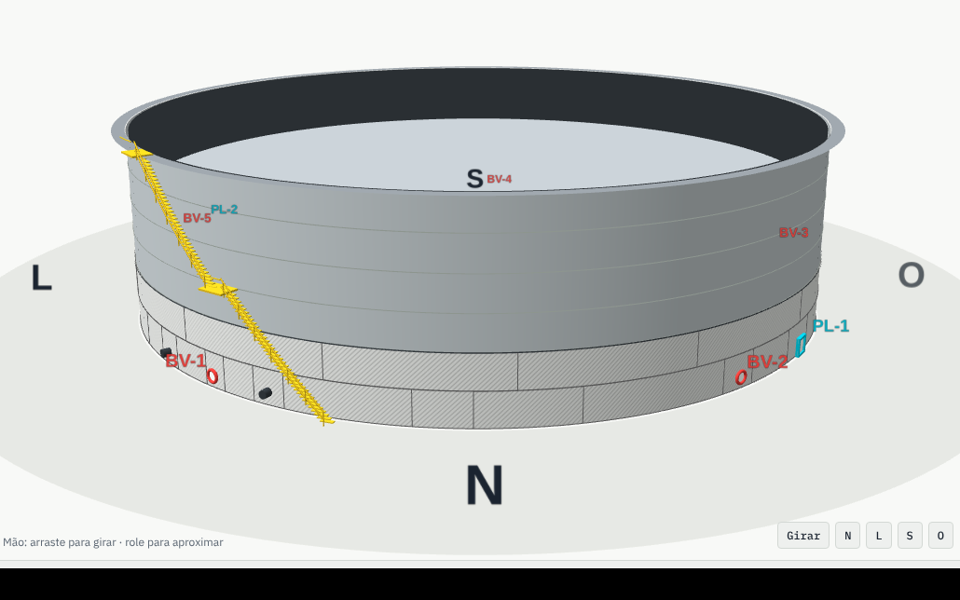
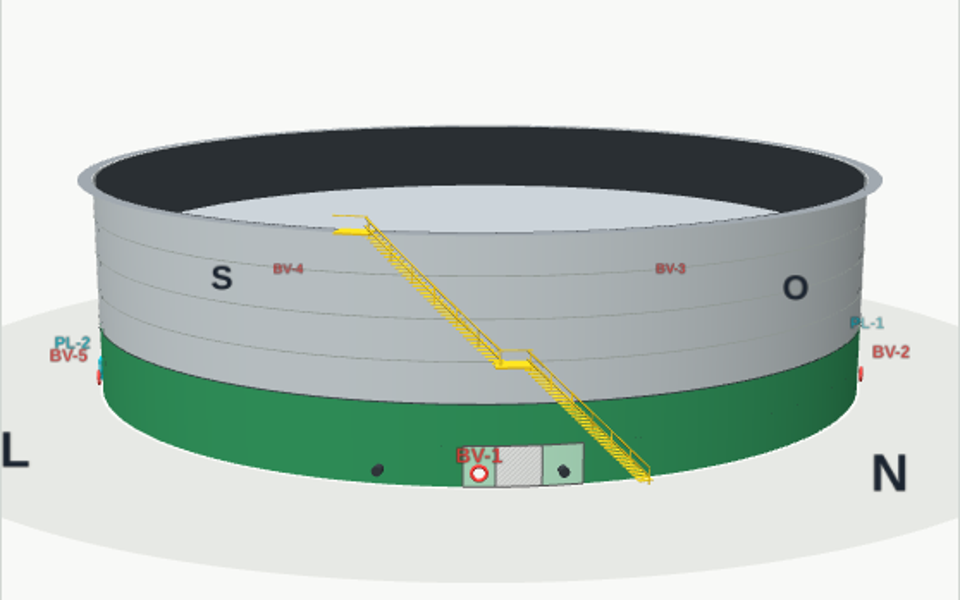
TQ-62025: levantamento de 23/11/2026 (98,7% do isolamento removido) (#11)
Claude-Session: https://claude.ai/code/session_01NXxnoQQoin4vzJs9LkyEt3

diff --git a/tanques/TQ-62025.html b/tanques/TQ-62025.html
@@ -81,7 +81,7 @@ aside{display:flex;flex-direction:column;gap:12px;min-width:0}
     <div class="eyebrow">RNEST · Tancagem de Dreneiros · Área 62 · Remoção do isolamento térmico do costado</div>
     <h1>TQ-62025 em 3D</h1>
   </div>
-  <div class="date">Levantamento de 14/11/2026 · 84,6% removido</div>
+  <div class="date">Levantamento de 23/11/2026 · 98,7% removido</div>
 </header>
 
 <div class="main">
@@ -1165,7 +1165,7 @@ aside{display:flex;flex-direction:column;gap:12px;min-width:0}
 } )();
 </script>
 <script>
-const DATA=[{"a": 1, "n": 1, "s": 1.16, "e": 9.09, "ln": 3698, "ar": 9.03, "o": "", "p": 0}, {"a": 1, "n": 2, "s": 9.09, "e": 27.42, "ln": 8500, "ar": 20.88, "o": "", "p": 0.3}, {"a": 1, "n": 3, "s": 27.42, "e": 32.54, "ln": 2400, "ar": 5.83, "o": "Bocal 21A 30°", "p": 0.7}, {"a": 1, "n": 4, "s": 32.54, "e": 38.21, "ln": 2682, "ar": 6.46, "o": "", "p": 0}, {"a": 1, "n": 5, "s": 38.21, "e": 42.18, "ln": 1836, "ar": 4.52, "o": "BV-1 – boca de visita 40,2°", "p": 0}, {"a": 1, "n": 6, "s": 42.18, "e": 49.91, "ln": 3618, "ar": 8.81, "o": "", "p": 0}, {"a": 1, "n": 7, "s": 49.91, "e": 55.06, "ln": 2400, "ar": 5.87, "o": "Bocal 21B 52,5°", "p": 0.2}, {"a": 1, "n": 8, "s": 55.06, "e": 62.17, "ln": 3305, "ar": 8.1, "o": "", "p": 1}, {"a": 1, "n": 9, "s": 62.17, "e": 87.88, "ln": 12000, "ar": 29.29, "o": "", "p": 1}, {"a": 1, "n": 10, "s": 87.88, "e": 113.59, "ln": 12000, "ar": 29.29, "o": "", "p": 1}, {"a": 1, "n": 11, "s": 113.59, "e": 119.82, "ln": 2900, "ar": 7.1, "o": "BV-5 – boca de visita 116,7°", "p": 1}, {"a": 1, "n": 12, "s": 119.82, "e": 128.19, "ln": 3900, "ar": 9.54, "o": "PL-2 – porta de limpeza 124°", "p": 1}, {"a": 1, "n": 13, "s": 128.19, "e": 131.6, "ln": 1588, "ar": 3.88, "o": "", "p": 1}, {"a": 1, "n": 14, "s": 131.6, "e": 157.31, "ln": 12000, "ar": 29.29, "o": "", "p": 1}, {"a": 1, "n": 15, "s": 157.31, "e": 183.03, "ln": 12000, "ar": 29.3, "o": "", "p": 1}, {"a": 1, "n": 16, "s": 183.03, "e": 186.99, "ln": 1836, "ar": 4.51, "o": "BV-4 – boca de visita 185°", "p": 1}, {"a": 1, "n": 17, "s": 186.99, "e": 212.71, "ln": 12000, "ar": 29.3, "o": "", "p": 1}, {"a": 1, "n": 18, "s": 212.71, "e": 238.45, "ln": 12000, "ar": 29.32, "o": "", "p": 1}, {"a": 1, "n": 19, "s": 238.45, "e": 253.07, "ln": 6820, "ar": 16.66, "o": "", "p": 1}, {"a": 1, "n": 20, "s": 253.07, "e": 257.03, "ln": 1836, "ar": 4.51, "o": "BV-3 – boca de visita 255°", "p": 1}, {"a": 1, "n": 21, "s": 257.03, "e": 282.72, "ln": 12000, "ar": 29.27, "o": "", "p": 1}, {"a": 1, "n": 22, "s": 282.72, "e": 299.82, "ln": 7991, "ar": 19.48, "o": "", "p": 1}, {"a": 1, "n": 23, "s": 299.82, "e": 308.19, "ln": 3900, "ar": 9.54, "o": "PL-1 – porta de limpeza 304°", "p": 1}, {"a": 1, "n": 24, "s": 308.19, "e": 318.37, "ln": 4743, "ar": 11.6, "o": "", "p": 1}, {"a": 1, "n": 25, "s": 318.37, "e": 324.59, "ln": 2900, "ar": 7.09, "o": "BV-2 – boca de visita 321,5°", "p": 1}, {"a": 1, "n": 26, "s": 324.59, "e": 346.84, "ln": 10670, "ar": 25.35, "o": "", "p": 1}, {"a": 1, "n": 27, "s": 346.84, "e": 1.16, "ln": 6710, "ar": 16.31, "o": "", "p": 0.15}, {"a": 2, "n": 1, "s": 21.2, "e": 46.91, "ln": 12000, "ar": 29.28, "o": "", "p": 0.38}, {"a": 2, "n": 2, "s": 46.91, "e": 72.63, "ln": 12000, "ar": 29.29, "o": "", "p": 0.72}, {"a": 2, "n": 3, "s": 72.63, "e": 98.34, "ln": 12000, "ar": 29.28, "o": "", "p": 1}, {"a": 2, "n": 4, "s": 98.34, "e": 124.11, "ln": 12000, "ar": 29.35, "o": "", "p": 1}, {"a": 2, "n": 5, "s": 124.11, "e": 149.83, "ln": 12000, "ar": 29.29, "o": "", "p": 1}, {"a": 2, "n": 6, "s": 149.83, "e": 175.54, "ln": 12000, "ar": 29.28, "o": "", "p": 1}, {"a": 2, "n": 7, "s": 175.54, "e": 201.25, "ln": 12000, "ar": 29.28, "o": "", "p": 1}, {"a": 2, "n": 8, "s": 201.25, "e": 226.97, "ln": 12000, "ar": 29.29, "o": "", "p": 1}, {"a": 2, "n": 9, "s": 226.97, "e": 242.06, "ln": 7030, "ar": 17.19, "o": "", "p": 1}, {"a": 2, "n": 10, "s": 242.06, "e": 267.77, "ln": 12000, "ar": 29.28, "o": "", "p": 1}, {"a": 2, "n": 11, "s": 267.77, "e": 278.29, "ln": 4905, "ar": 11.98, "o": "", "p": 1}, {"a": 2, "n": 12, "s": 278.29, "e": 304.03, "ln": 12000, "ar": 29.32, "o": "", "p": 1}, {"a": 2, "n": 13, "s": 304.03, "e": 329.77, "ln": 12000, "ar": 29.32, "o": "", "p": 1}, {"a": 2, "n": 14, "s": 329.77, "e": 355.51, "ln": 12000, "ar": 29.32, "o": "", "p": 0.75}, {"a": 2, "n": 15, "s": 355.51, "e": 21.2, "ln": 12000, "ar": 29.26, "o": "", "p": 0}];
+const DATA=[{"a": 1, "n": 1, "s": 1.16, "e": 9.09, "ln": 3698, "ar": 9.03, "o": "", "p": 1}, {"a": 1, "n": 2, "s": 9.09, "e": 27.42, "ln": 8500, "ar": 20.88, "o": "", "p": 1}, {"a": 1, "n": 3, "s": 27.42, "e": 32.54, "ln": 2400, "ar": 5.83, "o": "Bocal 21A 30°", "p": 0.7}, {"a": 1, "n": 4, "s": 32.54, "e": 38.21, "ln": 2682, "ar": 6.46, "o": "", "p": 0}, {"a": 1, "n": 5, "s": 38.21, "e": 42.18, "ln": 1836, "ar": 4.52, "o": "BV-1 – boca de visita 40,2°", "p": 0.5}, {"a": 1, "n": 6, "s": 42.18, "e": 49.91, "ln": 3618, "ar": 8.81, "o": "", "p": 1}, {"a": 1, "n": 7, "s": 49.91, "e": 55.06, "ln": 2400, "ar": 5.87, "o": "Bocal 21B 52,5°", "p": 1}, {"a": 1, "n": 8, "s": 55.06, "e": 62.17, "ln": 3305, "ar": 8.1, "o": "", "p": 1}, {"a": 1, "n": 9, "s": 62.17, "e": 87.88, "ln": 12000, "ar": 29.29, "o": "", "p": 1}, {"a": 1, "n": 10, "s": 87.88, "e": 113.59, "ln": 12000, "ar": 29.29, "o": "", "p": 1}, {"a": 1, "n": 11, "s": 113.59, "e": 119.82, "ln": 2900, "ar": 7.1, "o": "BV-5 – boca de visita 116,7°", "p": 1}, {"a": 1, "n": 12, "s": 119.82, "e": 128.19, "ln": 3900, "ar": 9.54, "o": "PL-2 – porta de limpeza 124°", "p": 1}, {"a": 1, "n": 13, "s": 128.19, "e": 131.6, "ln": 1588, "ar": 3.88, "o": "", "p": 1}, {"a": 1, "n": 14, "s": 131.6, "e": 157.31, "ln": 12000, "ar": 29.29, "o": "", "p": 1}, {"a": 1, "n": 15, "s": 157.31, "e": 183.03, "ln": 12000, "ar": 29.3, "o": "", "p": 1}, {"a": 1, "n": 16, "s": 183.03, "e": 186.99, "ln": 1836, "ar": 4.51, "o": "BV-4 – boca de visita 185°", "p": 1}, {"a": 1, "n": 17, "s": 186.99, "e": 212.71, "ln": 12000, "ar": 29.3, "o": "", "p": 1}, {"a": 1, "n": 18, "s": 212.71, "e": 238.45, "ln": 12000, "ar": 29.32, "o": "", "p": 1}, {"a": 1, "n": 19, "s": 238.45, "e": 253.07, "ln": 6820, "ar": 16.66, "o": "", "p": 1}, {"a": 1, "n": 20, "s": 253.07, "e": 257.03, "ln": 1836, "ar": 4.51, "o": "BV-3 – boca de visita 255°", "p": 1}, {"a": 1, "n": 21, "s": 257.03, "e": 282.72, "ln": 12000, "ar": 29.27, "o": "", "p": 1}, {"a": 1, "n": 22, "s": 282.72, "e": 299.82, "ln": 7991, "ar": 19.48, "o": "", "p": 1}, {"a": 1, "n": 23, "s": 299.82, "e": 308.19, "ln": 3900, "ar": 9.54, "o": "PL-1 – porta de limpeza 304°", "p": 1}, {"a": 1, "n": 24, "s": 308.19, "e": 318.37, "ln": 4743, "ar": 11.6, "o": "", "p": 1}, {"a": 1, "n": 25, "s": 318.37, "e": 324.59, "ln": 2900, "ar": 7.09, "o": "BV-2 – boca de visita 321,5°", "p": 1}, {"a": 1, "n": 26, "s": 324.59, "e": 346.84, "ln": 10670, "ar": 25.35, "o": "", "p": 1}, {"a": 1, "n": 27, "s": 346.84, "e": 1.16, "ln": 6710, "ar": 16.31, "o": "", "p": 1}, {"a": 2, "n": 1, "s": 21.2, "e": 46.91, "ln": 12000, "ar": 29.28, "o": "", "p": 1}, {"a": 2, "n": 2, "s": 46.91, "e": 72.63, "ln": 12000, "ar": 29.29, "o": "", "p": 1}, {"a": 2, "n": 3, "s": 72.63, "e": 98.34, "ln": 12000, "ar": 29.28, "o": "", "p": 1}, {"a": 2, "n": 4, "s": 98.34, "e": 124.11, "ln": 12000, "ar": 29.35, "o": "", "p": 1}, {"a": 2, "n": 5, "s": 124.11, "e": 149.83, "ln": 12000, "ar": 29.29, "o": "", "p": 1}, {"a": 2, "n": 6, "s": 149.83, "e": 175.54, "ln": 12000, "ar": 29.28, "o": "", "p": 1}, {"a": 2, "n": 7, "s": 175.54, "e": 201.25, "ln": 12000, "ar": 29.28, "o": "", "p": 1}, {"a": 2, "n": 8, "s": 201.25, "e": 226.97, "ln": 12000, "ar": 29.29, "o": "", "p": 1}, {"a": 2, "n": 9, "s": 226.97, "e": 242.06, "ln": 7030, "ar": 17.19, "o": "", "p": 1}, {"a": 2, "n": 10, "s": 242.06, "e": 267.77, "ln": 12000, "ar": 29.28, "o": "", "p": 1}, {"a": 2, "n": 11, "s": 267.77, "e": 278.29, "ln": 4905, "ar": 11.98, "o": "", "p": 1}, {"a": 2, "n": 12, "s": 278.29, "e": 304.03, "ln": 12000, "ar": 29.32, "o": "", "p": 1}, {"a": 2, "n": 13, "s": 304.03, "e": 329.77, "ln": 12000, "ar": 29.32, "o": "", "p": 1}, {"a": 2, "n": 14, "s": 329.77, "e": 355.51, "ln": 12000, "ar": 29.32, "o": "", "p": 1}, {"a": 2, "n": 15, "s": 355.51, "e": 21.2, "ln": 12000, "ar": 29.26, "o": "", "p": 1}];
 const BVS=[[40.2, "BV-1"], [321.5, "BV-2"], [255, "BV-3"], [185, "BV-4"], [116.7, "BV-5"]], PLS=[[304, "PL-1"], [124, "PL-2"]], BOC=[[30, "21A"], [52.5, "21B"]], ESC={"inicio": 20, "patamar": 36.3, "topo_aprox": 53, "ref": "KFH-001 rev. K: inicio da escada 20 graus, patamar intermediario 36,3 graus; topo aprox. 53 graus medido na planta"};
 const R=26.75,H=2.44,TOPH=14.625,ISO=4.9;
 const css=n=>getComputedStyle(document.documentElement).getPropertyValue(n).trim();
